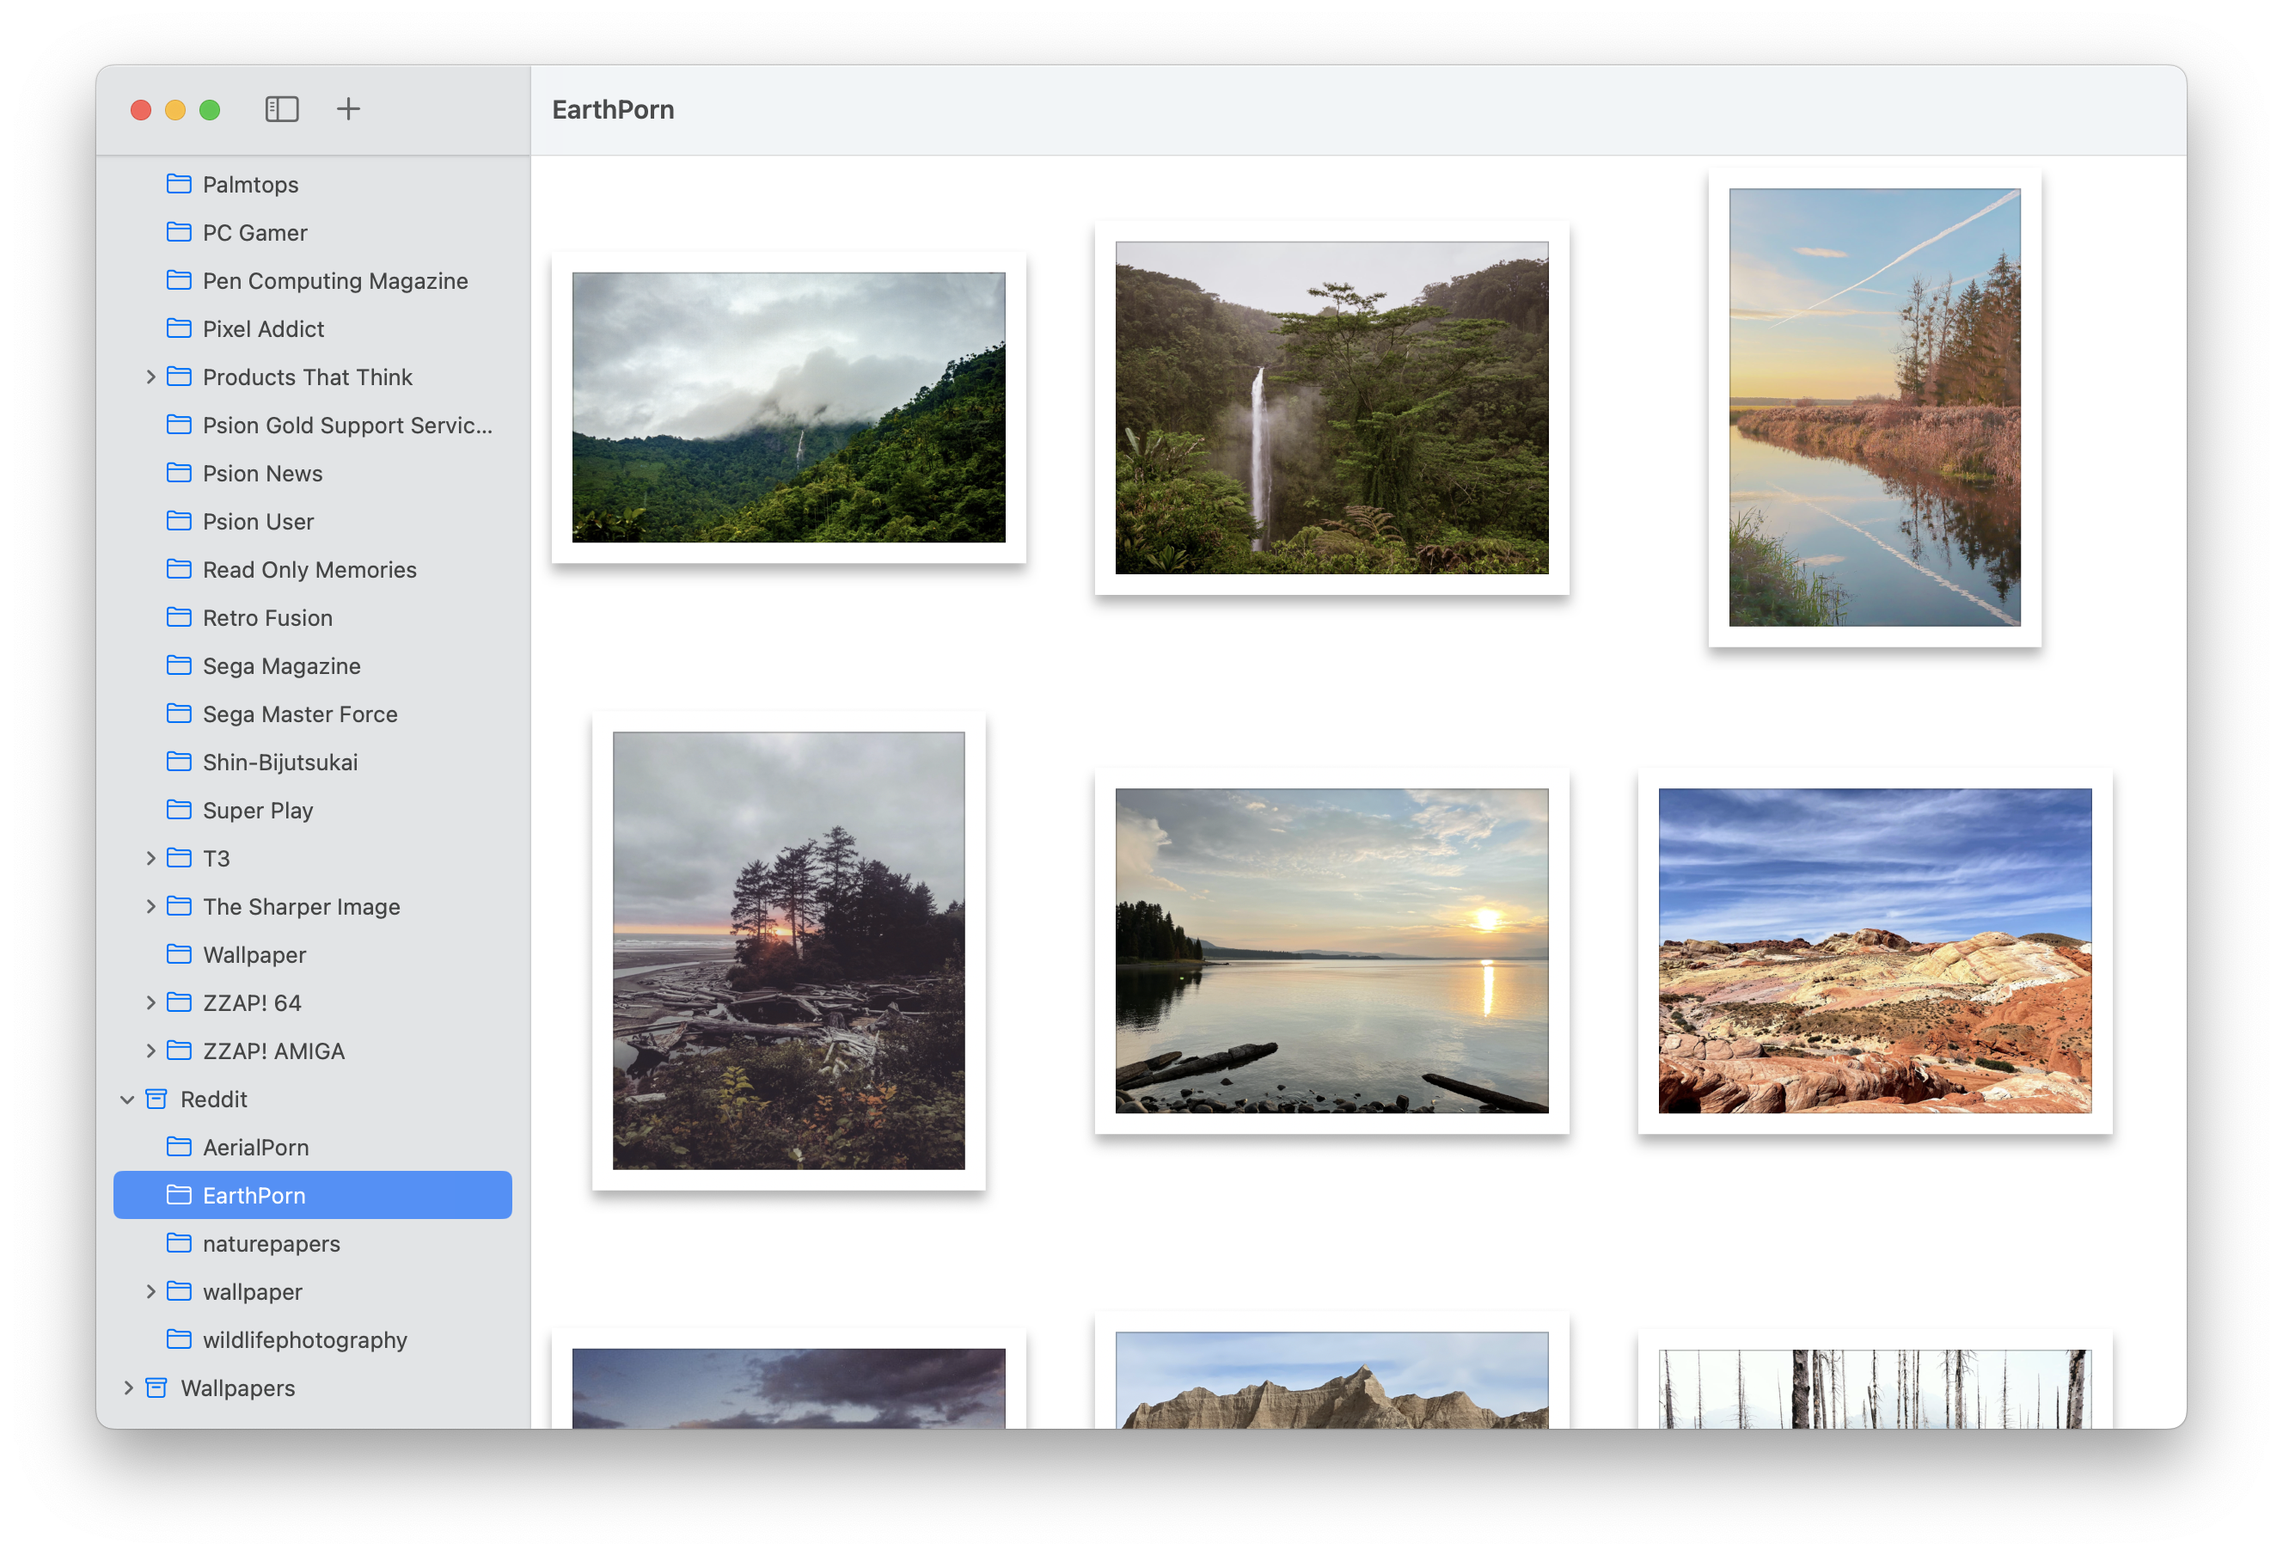
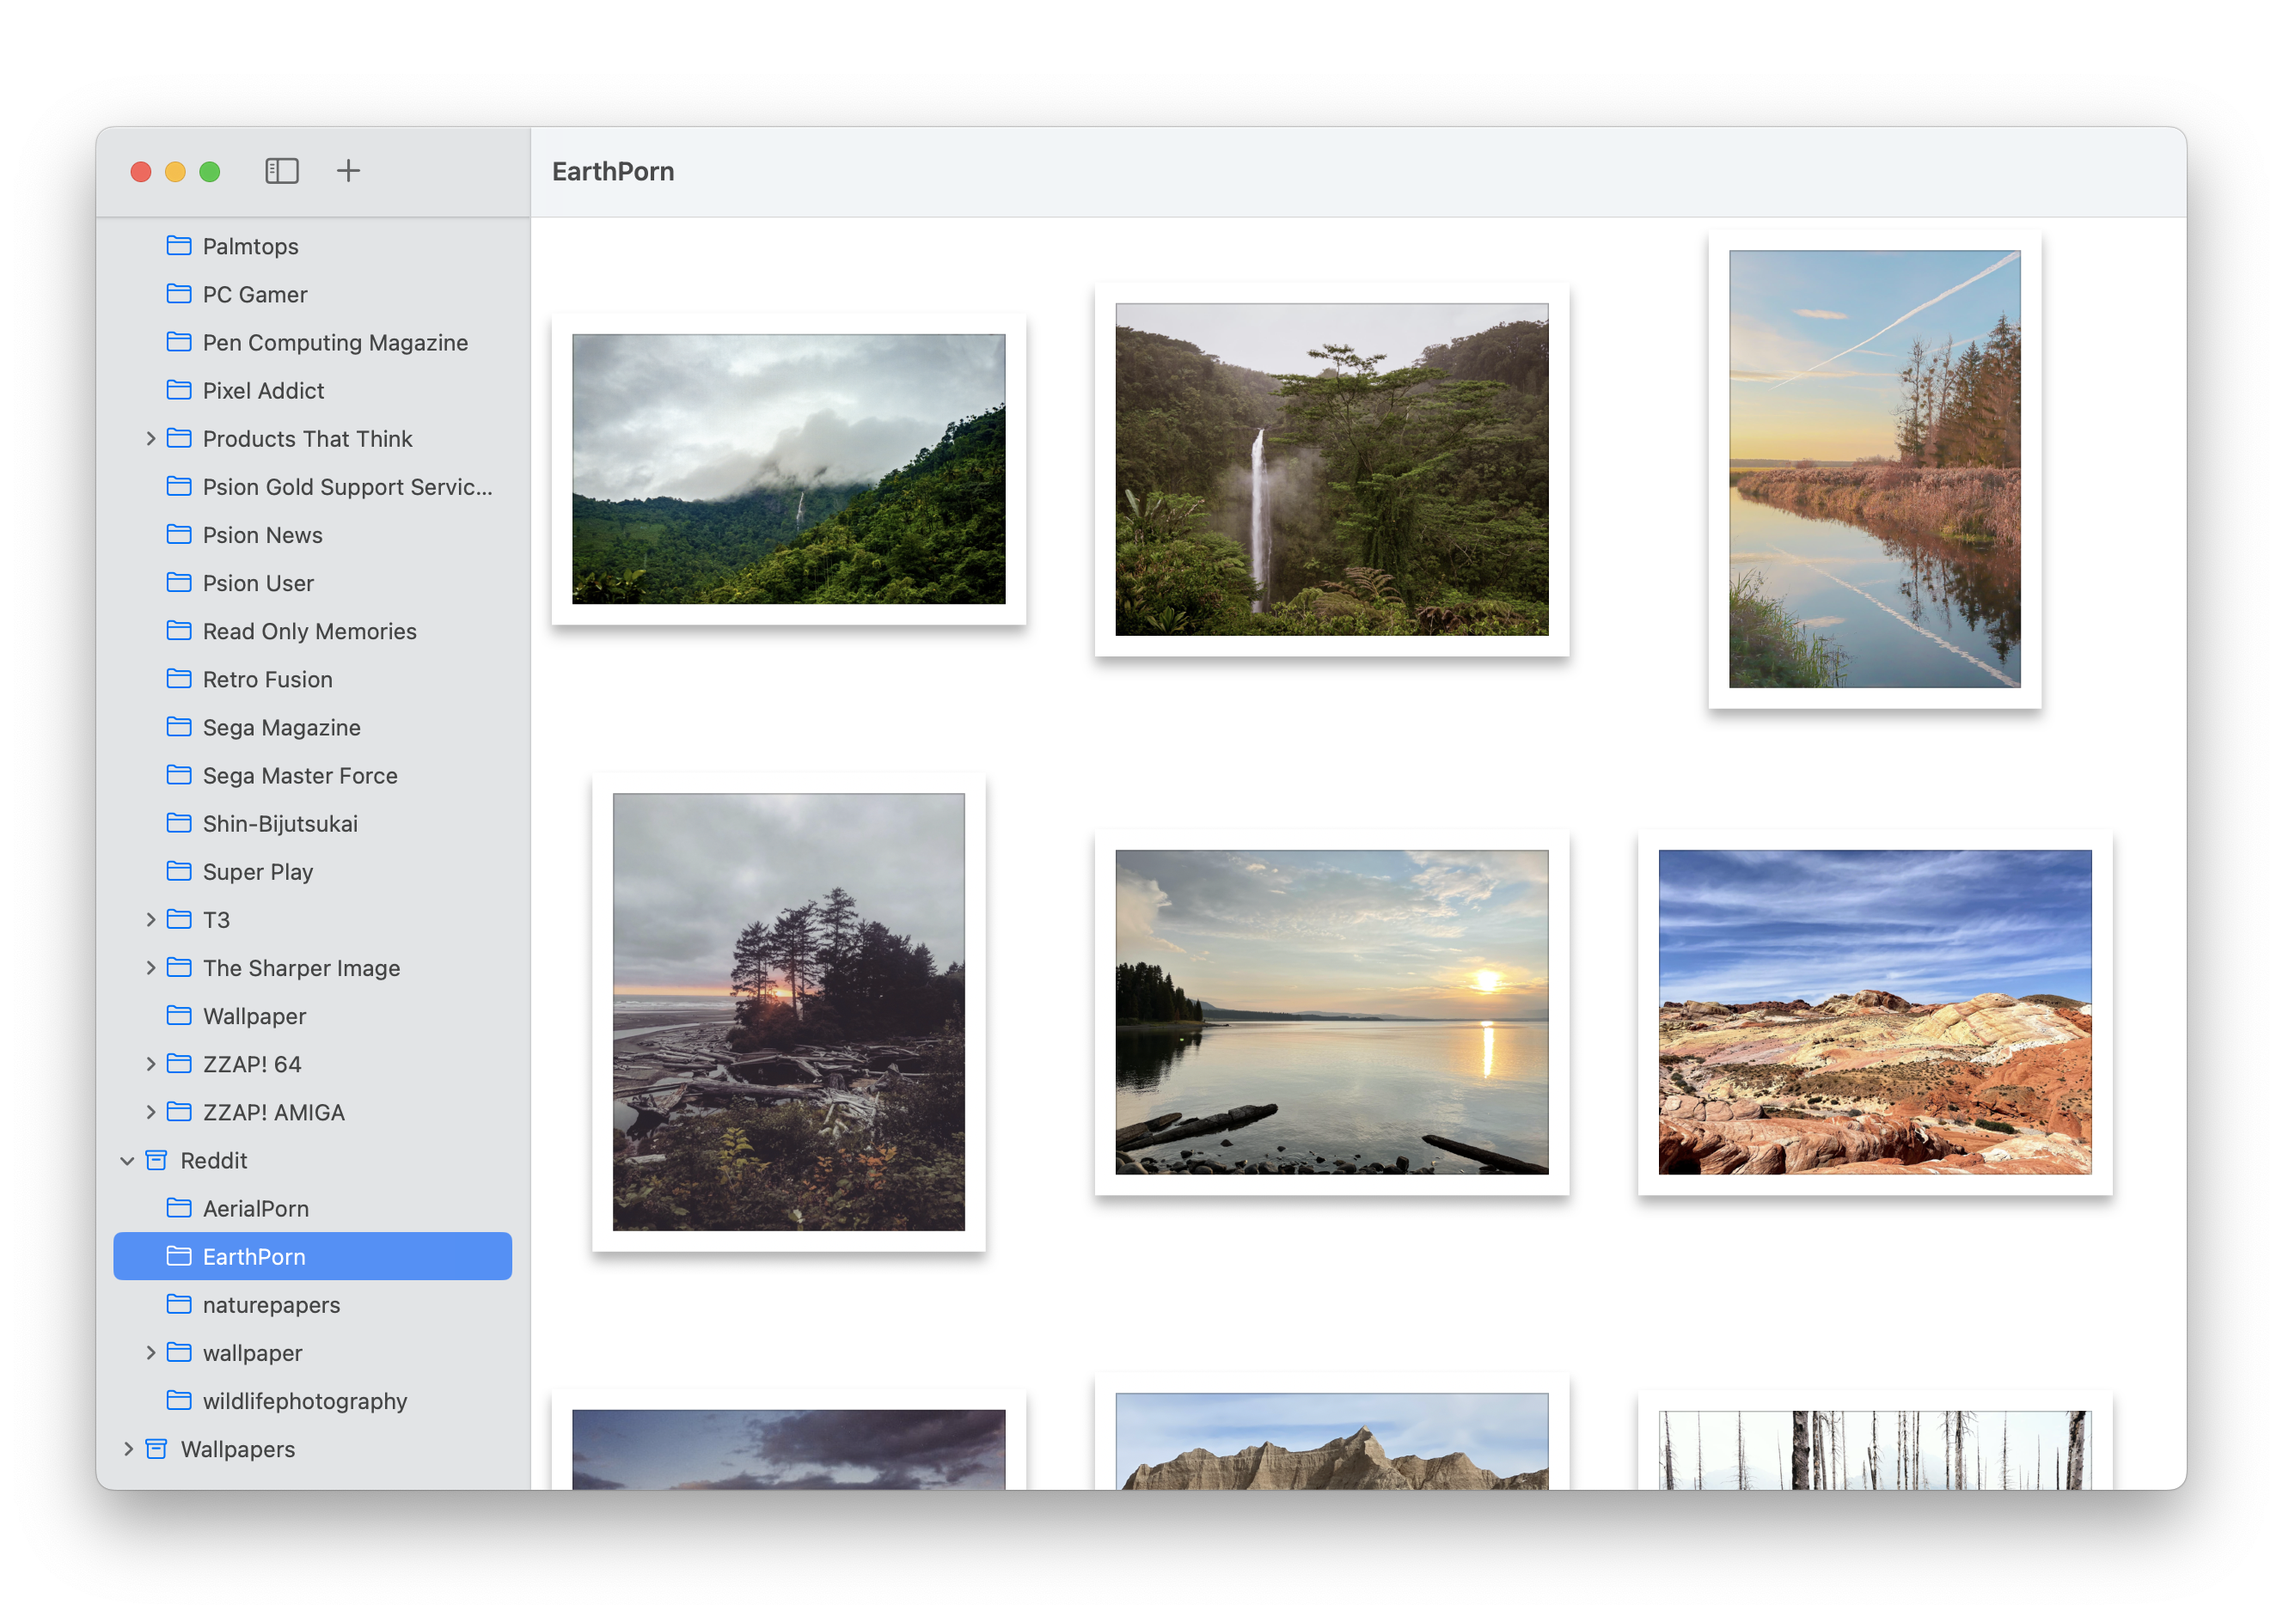
docs[website]: 📏 Vertically center the screenshot in the showcase (#208)

diff --git a/docs/assets/css/custom.css b/docs/assets/css/custom.css
@@ -1,0 +1,13 @@
+:root {
+    --brand-color: #f2bcb3;
+    --showcase-color-high: #ffccd9;
+    --showcase-color-low: #fec09c;
+}
+
+@media (prefers-color-scheme: dark) {
+    :root {
+        --brand-color: #f2bcb3;
+        --showcase-color-high: #351f24;
+        --showcase-color-low: #2e231c;
+    }
+}
